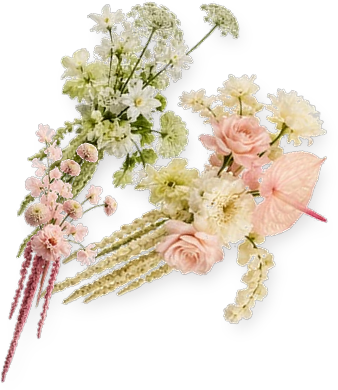
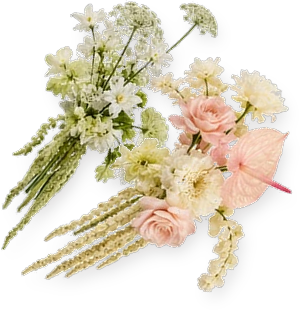
Akad Nikah: lighter flowers, one two-bouquet spray on calendar and card
Claude-Session: https://claude.ai/code/session_01XoHtnPRr6ropegWWzSqFE9

diff --git a/assets/css/style.css b/assets/css/style.css
@@ -1657,3 +1657,23 @@ p { margin: 0 0 1rem; }
 .sp-ev-br { bottom: -30%; width: 38%; }
 @media (min-width: 760px) { .sp-ev-br { bottom: -24%; width: 44%; } }
 .closing-spray { width: min(220px, 56%); }
+/* versi ringkas: satu rangkaian di kalender (kanan-atas), satu di kartu acara (kiri-bawah) */
+.sp-cal-tr { right: -12%; left: auto; top: -16%; width: 42%; rotate: 8deg; transform: scaleX(-1); }
+.sp-ev-br  { left: -12%; right: auto; bottom: -26%; width: 40%; rotate: 180deg; transform: scaleX(-1); }
+.event .countdown { margin-top: 5rem; }
+@media (min-width: 760px) {
+    .sp-cal-tr { right: auto; left: -24%; top: -16%; rotate: -8deg; transform: none; }
+    .sp-ev-br  { left: auto; right: -22%; bottom: -22%; rotate: 172deg; transform: none; }
+    .event .countdown { margin-top: 4rem; }
+}
+.sp-cal-tr { width: 50%; top: -20%; }
+.sp-ev-br  { width: 46%; bottom: -24%; }
+@media (min-width: 760px) { .sp-cal-tr { width: 58%; left: -30%; top: -22%; } .sp-ev-br { width: 56%; right: -28%; bottom: -26%; } }
+.sp-cal-tr { width: 44%; right: -20%; top: -4%; }
+.sp-ev-br  { width: 42%; left: -16%; bottom: -36%; }
+.event .countdown { margin-top: 6rem; }
+@media (min-width: 760px) {
+    .sp-cal-tr { width: 54%; left: -36%; right: auto; top: -18%; }
+    .sp-ev-br  { width: 52%; left: auto; right: -36%; bottom: -30%; }
+    .event .countdown { margin-top: 4.5rem; }
+}

diff --git a/index.php b/index.php
@@ -66,7 +66,7 @@ $pageDesc  = tanggal_id($ev['start']) . ' · ' . $ev['venue'];
     <link rel="preconnect" href="https://fonts.googleapis.com">
     <link rel="preconnect" href="https://fonts.gstatic.com" crossorigin>
     <link href="https://fonts.googleapis.com/css2?family=Amiri:wght@400;700&family=Caveat:wght@500;600&family=Cormorant+Garamond:ital,wght@0,400;0,500;0,600;1,400&family=Pinyon+Script&display=swap" rel="stylesheet">
-    <link rel="stylesheet" href="assets/css/style.css?v=29">
+    <link rel="stylesheet" href="assets/css/style.css?v=30">
     <noscript><style>.reveal,.words .w{opacity:1;transform:none;filter:none}body.is-locked{overflow:auto;height:auto}.cover-hint{display:none}</style></noscript>
 </head>
 <body class="is-locked">
@@ -178,10 +178,10 @@ $pageDesc  = tanggal_id($ev['start']) . ' · ' . $ev['venue'];
         <h2 class="script section-script words reveal"><?= e($ev['name']) ?></h2>
 
         <div class="event-grid">
-            <div class="calendar-wrap reveal"><picture class="spray sp-cal-tr" aria-hidden="true"><source srcset="<?= e(img_url('spray-c.webp')) ?>" type="image/webp"><img src="<?= e(img_url('spray-c.png')) ?>" alt="" loading="lazy" decoding="async"></picture><?= doodle_calendar($startTs) ?><picture class="spray sp-cal-bl" aria-hidden="true"><source srcset="<?= e(img_url('spray-b.webp')) ?>" type="image/webp"><img src="<?= e(img_url('spray-b.png')) ?>" alt="" loading="lazy" decoding="async"></picture></div>
+            <div class="calendar-wrap reveal"><picture class="spray sp-cal-tr" aria-hidden="true"><source srcset="<?= e(img_url('spray-a.webp')) ?>" type="image/webp"><img src="<?= e(img_url('spray-a.png')) ?>" alt="" loading="lazy" decoding="async"></picture><?= doodle_calendar($startTs) ?></div>
 
             <dl class="event-meta sketch tilt-r reveal">
-                <picture class="spray sp-ev-tl" aria-hidden="true"><source srcset="<?= e(img_url('spray-a.webp')) ?>" type="image/webp"><img src="<?= e(img_url('spray-a.png')) ?>" alt="" loading="lazy" decoding="async"></picture><picture class="spray sp-ev-br" aria-hidden="true"><source srcset="<?= e(img_url('spray-b.webp')) ?>" type="image/webp"><img src="<?= e(img_url('spray-b.png')) ?>" alt="" loading="lazy" decoding="async"></picture><span class="em-c em-tl" aria-hidden="true"><svg viewBox="0 0 40 40"><path d="M3 30 V9 Q3 3 9 3 H30 M8 22 Q8 8 22 8 M12 15 q3 -3 6 0 q-3 3 -6 0z M30 3 q4 0 4 4 M3 30 q0 4 4 4"/></svg></span><span class="em-c em-tr" aria-hidden="true"><svg viewBox="0 0 40 40"><path d="M3 30 V9 Q3 3 9 3 H30 M8 22 Q8 8 22 8 M12 15 q3 -3 6 0 q-3 3 -6 0z M30 3 q4 0 4 4 M3 30 q0 4 4 4"/></svg></span><span class="em-c em-bl" aria-hidden="true"><svg viewBox="0 0 40 40"><path d="M3 30 V9 Q3 3 9 3 H30 M8 22 Q8 8 22 8 M12 15 q3 -3 6 0 q-3 3 -6 0z M30 3 q4 0 4 4 M3 30 q0 4 4 4"/></svg></span><span class="em-c em-br" aria-hidden="true"><svg viewBox="0 0 40 40"><path d="M3 30 V9 Q3 3 9 3 H30 M8 22 Q8 8 22 8 M12 15 q3 -3 6 0 q-3 3 -6 0z M30 3 q4 0 4 4 M3 30 q0 4 4 4"/></svg></span>
+                <picture class="spray sp-ev-br" aria-hidden="true"><source srcset="<?= e(img_url('spray-b.webp')) ?>" type="image/webp"><img src="<?= e(img_url('spray-b.png')) ?>" alt="" loading="lazy" decoding="async"></picture><span class="em-c em-tl" aria-hidden="true"><svg viewBox="0 0 40 40"><path d="M3 30 V9 Q3 3 9 3 H30 M8 22 Q8 8 22 8 M12 15 q3 -3 6 0 q-3 3 -6 0z M30 3 q4 0 4 4 M3 30 q0 4 4 4"/></svg></span><span class="em-c em-tr" aria-hidden="true"><svg viewBox="0 0 40 40"><path d="M3 30 V9 Q3 3 9 3 H30 M8 22 Q8 8 22 8 M12 15 q3 -3 6 0 q-3 3 -6 0z M30 3 q4 0 4 4 M3 30 q0 4 4 4"/></svg></span><span class="em-c em-bl" aria-hidden="true"><svg viewBox="0 0 40 40"><path d="M3 30 V9 Q3 3 9 3 H30 M8 22 Q8 8 22 8 M12 15 q3 -3 6 0 q-3 3 -6 0z M30 3 q4 0 4 4 M3 30 q0 4 4 4"/></svg></span><span class="em-c em-br" aria-hidden="true"><svg viewBox="0 0 40 40"><path d="M3 30 V9 Q3 3 9 3 H30 M8 22 Q8 8 22 8 M12 15 q3 -3 6 0 q-3 3 -6 0z M30 3 q4 0 4 4 M3 30 q0 4 4 4"/></svg></span>
                 <div>
                     <dt class="caps caps-xs">Hari &amp; Tanggal</dt>
                     <dd><?= e(tanggal_id($ev['start'])) ?></dd>
